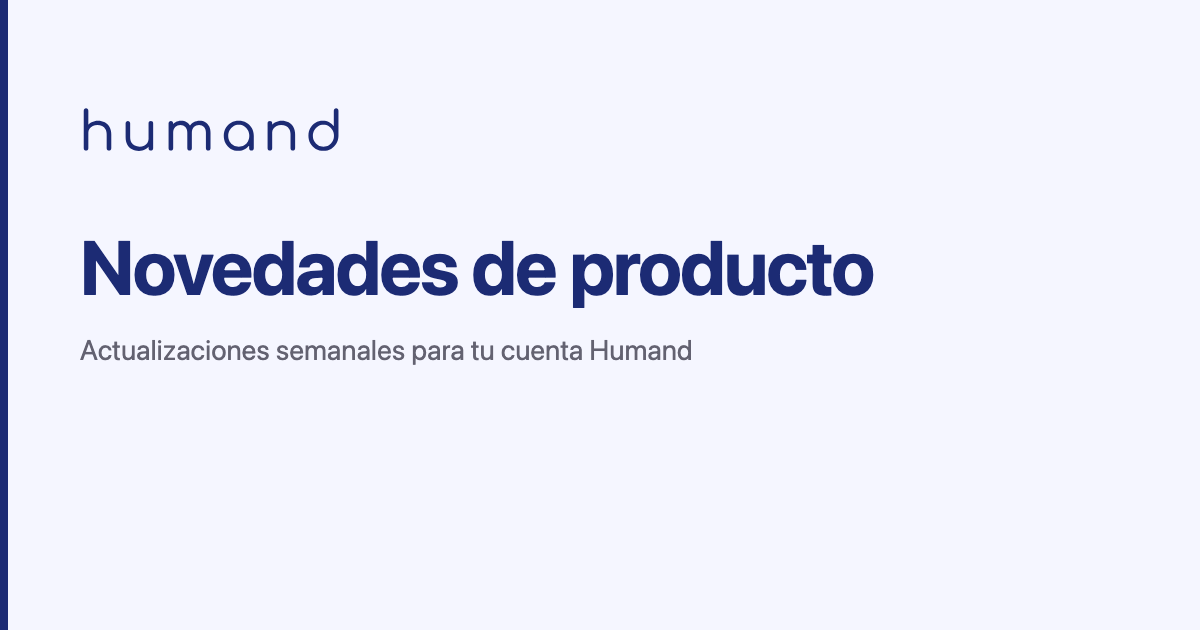
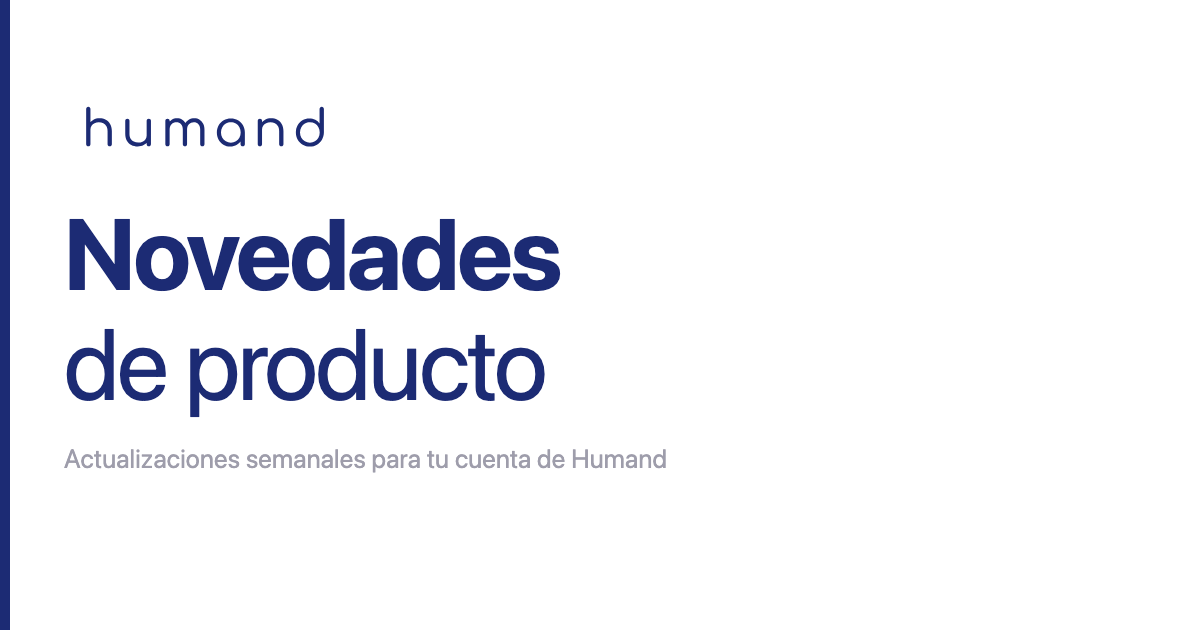
OG preview: rediseño con headline 2 líneas y fondo blanco

diff --git a/og-render.html b/og-render.html
@@ -4,17 +4,20 @@
 <meta charset="UTF-8">
 <style>
   * { margin: 0; padding: 0; }
-  html, body { width: 1200px; height: 630px; overflow: hidden; background: #F5F6FF; }
+  html, body { width: 1200px; height: 630px; overflow: hidden; background: #ffffff; }
 </style>
 </head>
 <body>
 <svg width="1200" height="630" viewBox="0 0 1200 630" xmlns="http://www.w3.org/2000/svg">
 
-  <rect width="1200" height="630" fill="#F5F6FF"/>
-  <rect x="0" y="0" width="8" height="630" fill="#1c2b74"/>
+  <!-- Background -->
+  <rect width="1200" height="630" fill="#ffffff"/>
 
-  <!-- Logo left-aligned, smaller -->
-  <g transform="translate(60, 56) scale(0.30)">
+  <!-- Left accent stripe -->
+  <rect x="0" y="0" width="10" height="630" fill="#1c2b74"/>
+
+  <!-- Logo top-left, small -->
+  <g transform="translate(64, 58) scale(0.28)">
     <path fill="#1c2b74" d="M86.89,276.32c-2.41,0-4.3-.72-5.68-2.16-1.38-1.44-2.07-3.25-2.07-5.41v-86.57c0-2.4.69-4.3,2.07-5.68,1.38-1.38,3.27-2.07,5.68-2.07,2.28,0,4.12.69,5.5,2.07,1.38,1.38,2.07,3.28,2.07,5.68v86.57c0,2.16-.69,3.97-2.07,5.41-1.38,1.44-3.22,2.16-5.5,2.16ZM86.89,315.28c-2.41,0-4.3-.69-5.68-2.07-1.38-1.38-2.07-3.21-2.07-5.5v-83.32c0-2.4.69-4.3,2.07-5.68,1.38-1.38,3.27-2.07,5.68-2.07,2.28,0,4.12.69,5.5,2.07,1.38,1.38,2.07,3.28,2.07,5.68v83.32c0,2.29-.69,4.12-2.07,5.5-1.38,1.38-3.22,2.07-5.5,2.07ZM163.36,315.28c-2.29,0-4.15-.72-5.59-2.16-1.44-1.44-2.16-3.25-2.16-5.41v-45.99c0-7.33-1.35-13.31-4.06-17.94-2.71-4.63-6.4-8.12-11.09-10.46-4.69-2.34-10.04-3.52-16.05-3.52-5.65,0-10.73,1.11-15.24,3.34-4.51,2.23-8.09,5.23-10.73,9.02-2.65,3.79-3.97,8.15-3.97,13.08h-10.46c.24-7.57,2.25-14.34,6.04-20.29,3.79-5.95,8.86-10.67,15.24-14.16,6.37-3.49,13.47-5.23,21.28-5.23,8.41,0,15.96,1.78,22.63,5.32,6.67,3.55,11.96,8.75,15.87,15.6,3.91,6.85,5.86,15.27,5.86,25.25v45.99c0,2.16-.72,3.97-2.16,5.41-1.44,1.44-3.25,2.16-5.41,2.16Z"/>
     <path fill="#1c2b74" d="M263.09,316.36c-8.54,0-16.14-1.77-22.81-5.32-6.67-3.54-11.93-8.75-15.78-15.6-3.85-6.85-5.77-15.27-5.77-25.25v-45.99c0-2.16.72-3.97,2.16-5.41,1.44-1.44,3.25-2.16,5.41-2.16s3.97.72,5.41,2.16c1.44,1.44,2.16,3.25,2.16,5.41v45.99c0,7.34,1.38,13.32,4.15,17.94,2.76,4.63,6.49,8.12,11.18,10.46,4.69,2.34,9.98,3.52,15.87,3.52s10.76-1.11,15.33-3.34c4.57-2.22,8.18-5.23,10.82-9.02,2.64-3.79,3.97-8.14,3.97-13.08h10.28c-.24,7.57-2.23,14.34-5.95,20.29-3.73,5.95-8.78,10.67-15.15,14.16-6.37,3.49-13.47,5.23-21.28,5.23ZM302.77,315.28c-2.29,0-4.12-.69-5.5-2.07-1.38-1.38-2.07-3.27-2.07-5.68v-83.32c0-2.28.69-4.12,2.07-5.5,1.38-1.38,3.21-2.07,5.5-2.07s4.15.69,5.59,2.07c1.44,1.38,2.16,3.22,2.16,5.5v83.32c0,2.41-.72,4.3-2.16,5.68-1.44,1.38-3.31,2.07-5.59,2.07Z"/>
     <path fill="#1c2b74" d="M369.68,315.28c-2.41,0-4.3-.69-5.68-2.07-1.38-1.38-2.07-3.21-2.07-5.5v-83.32c0-2.28.69-4.15,2.07-5.59,1.38-1.44,3.27-2.16,5.68-2.16,2.28,0,4.12.72,5.5,2.16,1.38,1.44,2.07,3.31,2.07,5.59v83.32c0,2.29-.69,4.12-2.07,5.5-1.38,1.38-3.22,2.07-5.5,2.07ZM431.9,315.28c-2.16,0-3.97-.69-5.41-2.07-1.44-1.38-2.16-3.21-2.16-5.5v-51.76c0-8.3-2.14-14.73-6.4-19.3-4.27-4.57-9.71-6.85-16.32-6.85-7.1,0-12.93,2.34-17.49,7.03-4.57,4.69-6.85,10.82-6.85,18.4h-10.46c.24-7.81,1.92-14.7,5.05-20.65,3.13-5.95,7.45-10.61,12.98-13.98,5.53-3.36,11.84-5.05,18.94-5.05s13.17,1.62,18.58,4.87c5.41,3.25,9.62,7.91,12.62,13.98,3,6.07,4.51,13.26,4.51,21.55v51.76c0,2.29-.69,4.12-2.07,5.5-1.38,1.38-3.22,2.07-5.5,2.07ZM494.12,315.28c-2.29,0-4.15-.69-5.59-2.07-1.44-1.38-2.16-3.21-2.16-5.5v-51.76c0-8.3-2.1-14.73-6.31-19.3-4.21-4.57-9.68-6.85-16.41-6.85-7.1,0-12.89,2.41-17.4,7.21-4.51,4.81-6.76,11.12-6.76,18.94h-13.17c.12-8.05,1.86-15.12,5.23-21.19,3.37-6.07,8.03-10.79,13.98-14.16,5.95-3.36,12.71-5.05,20.29-5.05,6.97,0,13.17,1.62,18.58,4.87,5.41,3.25,9.65,7.91,12.71,13.98,3.07,6.07,4.6,13.26,4.6,21.55v51.76c0,2.29-.72,4.12-2.16,5.5-1.44,1.38-3.25,2.07-5.41,2.07Z"/>
@@ -23,11 +26,12 @@
     <path fill="#1c2b74" d="M878.25,316.18c-9.5,0-18.03-2.19-25.61-6.58-7.57-4.39-13.56-10.37-17.94-17.94-4.39-7.57-6.58-16.17-6.58-25.79s2.1-18.03,6.31-25.61c4.21-7.57,9.92-13.55,17.13-17.94,7.21-4.39,15.39-6.58,24.53-6.58,7.81,0,14.88,1.65,21.19,4.96,6.31,3.31,11.45,7.66,15.42,13.08v-51.58c0-2.4.75-4.3,2.25-5.68,1.5-1.38,3.34-2.07,5.5-2.07,2.28,0,4.15.69,5.59,2.07,1.44,1.38,2.16,3.28,2.16,5.68v84.22c-.24,9.38-2.56,17.83-6.94,25.34-4.39,7.52-10.31,13.47-17.77,17.85-7.46,4.39-15.87,6.58-25.25,6.58ZM878.25,302.47c6.73,0,12.72-1.62,17.95-4.87,5.23-3.25,9.38-7.6,12.44-13.08,3.07-5.47,4.6-11.69,4.6-18.67s-1.53-13.04-4.6-18.58c-3.07-5.53-7.21-9.89-12.44-13.08-5.23-3.18-11.21-4.78-17.95-4.78s-12.59,1.59-17.94,4.78c-5.35,3.19-9.59,7.55-12.71,13.08-3.13,5.53-4.69,11.72-4.69,18.58s1.56,13.2,4.69,18.67c3.13,5.47,7.36,9.83,12.71,13.08,5.35,3.25,11.33,4.87,17.94,4.87Z"/>
   </g>
 
-  <!-- Headline left-aligned -->
-  <text x="80" y="295" font-family="-apple-system, BlinkMacSystemFont, 'Helvetica Neue', Arial, sans-serif" font-size="76" font-weight="700" fill="#1c2b74" letter-spacing="-1.5">Novedades de producto</text>
+  <!-- Headline — 2 lines -->
+  <text x="64" y="290" font-family="-apple-system, BlinkMacSystemFont, 'Helvetica Neue', Arial, sans-serif" font-size="100" font-weight="700" fill="#1c2b74" letter-spacing="-2">Novedades</text>
+  <text x="64" y="400" font-family="-apple-system, BlinkMacSystemFont, 'Helvetica Neue', Arial, sans-serif" font-size="100" font-weight="400" fill="#1c2b74" letter-spacing="-2">de producto</text>
 
   <!-- Subtitle -->
-  <text x="80" y="360" font-family="-apple-system, BlinkMacSystemFont, 'Helvetica Neue', Arial, sans-serif" font-size="28" font-weight="400" fill="#636271">Actualizaciones semanales para tu cuenta Humand</text>
+  <text x="64" y="468" font-family="-apple-system, BlinkMacSystemFont, 'Helvetica Neue', Arial, sans-serif" font-size="26" font-weight="400" fill="#9e9dab" letter-spacing="0">Actualizaciones semanales para tu cuenta de Humand</text>
 
 </svg>
 </body>
